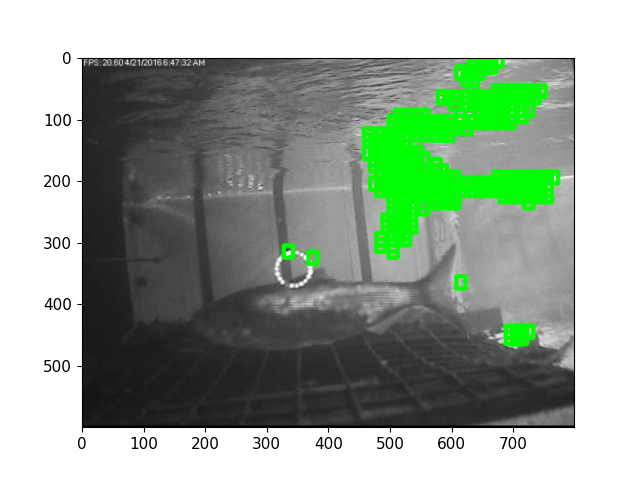
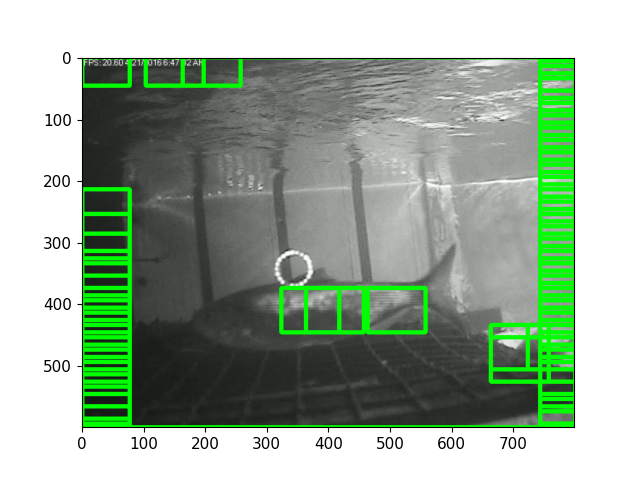
visulaisation code added

diff --git a/yolov7/visualisation.py b/yolov7/visualisation.py
@@ -4,18 +4,23 @@ import torch
 import cv2
 from torchvision import transforms
 import numpy as np
+import tqdm
 import math
 from utils.datasets import letterbox
+from models.experimental import attempt_load
 from utils.general import check_img_size, check_requirements, check_imshow, non_max_suppression, apply_classifier, \
     scale_coords, xyxy2xywh, strip_optimizer, set_logging, increment_path
 
-def visualise(weights_path,img_path):
+def visualise(weights_path,img_path,target_box,target_class_index):
     device = torch.device("cuda:0" if torch.cuda.is_available() else "cpu")
-    label_names =[ 'scallop','herring','dead-scallop','flounder','roundfish','skate' ]
-    weigths = torch.load(weights_path)
-    model = weigths['model']
-    model = model.half().to(device)
-    _ = model.eval()
+    classes=np.array([ 'scallop','herring','dead-scallop','flounder','roundfish','skate' ])
+    weights = torch.load(weights_path)
+    model = attempt_load(weights_path, map_location=device)
+    stride = int(model.stride.max())  # model stride
+    # imgsz = check_img_size(imgsz, s=stride)  # check img_size
+
+    # model = model.half().to(device)
+    # _ = model.eval()
     image = cv2.imread(img_path)  # 504x378 image
     
     # imaget = letterbox(image, 640, stride=64, auto=True)[0]
@@ -42,15 +47,20 @@ def visualise(weights_path,img_path):
         return mask
 
     def mask_image(image, mask):
-        masked = ((image.astype(np.float32) / 255 * np.dstack([mask] * 3)) *
+        masked0 = ((image.astype(np.float32) / 255 * np.dstack([mask] * 3)) *
                   255).astype(np.uint8)
-        masked = letterbox(masked, 1280, stride=64, auto=True)[0]
-        masked_ = image.copy()
-        masked = transforms.ToTensor()(masked)
-        masked = torch.tensor(np.array([masked.numpy()]))
-        masked = masked.to(device)
-        masked = masked.half()
-        return masked
+        masked = letterbox(masked0, 640, stride=stride)[0]
+
+        # Convert
+        masked = masked[:, :, ::-1].transpose(2, 0, 1)  # BGR to RGB, to 3x416x416
+        masked = np.ascontiguousarray(masked)
+        masked = torch.from_numpy(masked).to(device)
+        masked = masked.float()  # uint8 to fp16/32
+        masked /= 255.0  # 0 - 255 to 0.0 - 1.0
+        # print(masked)
+        if masked.ndimension() == 3:
+            masked = masked.unsqueeze(0)
+        return masked0,masked
 
     def iou(box1, box2):
         box1 = np.asarray(box1)
@@ -72,58 +82,105 @@ def visualise(weights_path,img_path):
         np.random.seed(seed)
         image_h, image_w = image.shape[:2]
         res = np.zeros((image_h, image_w), dtype=np.float32)
+        max_score=0
         for _ in range(n_masks):
             mask = generate_mask(image_size=(image_w, image_h),
                                 grid_size=grid_size,
                                 prob_thresh=prob_thresh)
-            masked = mask_image(image, mask)
-            out = model(masked)
-            # for i, det in enumerate(out):  # detections per image
-                
-            #     im0= masked
+            masked0,masked = mask_image(image, mask)
+            with torch.no_grad():   # Calculating gradients would cause a GPU memory leak
+                pred = model(masked)[0]
+                # print(pred)
+                pred = non_max_suppression(pred)
+                # score = max([iou(target_box, box) * score for *box, score in pred],default=0)
+                # res += mask * score
+            max_score=0
+            for i, det in enumerate(pred):
+                # print(det[:, :4])
+                if len(det):
+                    # Rescale boxes from img_size to im0 size
+                    det[:, :4] = scale_coords(masked.shape[2:], det[:, :4], masked0.shape).round()
+                    bboxes=det[:, :4].cpu().data.numpy()
+                    scores=det[:, 4].cpu().data.numpy()
+                    classes_=det[:, -1].cpu().data.numpy()
+                    # print(bbox,score,class_)
+                    for item in range(len(scores)):
+                        if int(classes_[item])==int(target_class_index):
+                            max_score=max(iou(target_box,bboxes[item])*scores[item],max_score)
+            res += mask * max_score
+        return res
 
-            #     gn = torch.tensor(im0.shape)[[1, 0, 1, 0]]  # normalization gain whwh
-            #     if len(det):
-            #         # Rescale boxes from img_size to im0 size
-            #         det[:, :4] = scale_coords(masked.shape[2:], det[:, :4], im0.shape).round()
-
-            #         # Print results
-            #         for c in det[:, -1].unique():
-            #             n = (det[:, -1] == c).sum()  # detections per class
-            #             s += f"{n} {names[int(c)]}{'s' * (n > 1)}, "  # add to string
-
-            #         # Write results
-            #         for *xyxy, conf, cls in reversed(det):
-            #             xywh = (xyxy2xywh(torch.tensor(xyxy).view(1, 4)) / gn).view(-1).tolist()  # normalized xywh
-                        
-            # pred = out.xyxy[0]
-            pred = out.max()
-            # res += mask * score
-        return pred
-
-    target_box = np.array([289, 72, 491, 388])
+    # target_box = np.array([270, 255, 615, 377])
     saliency_map = generate_saliency_map(image,
-                                        target_class_index=15,
+                                        target_class_index=target_class_index,
                                         target_box=target_box,
                                         prob_thresh=0.5,
                                         grid_size=(16, 16),
-                                        n_masks=1000)
-    return saliency_map
+                                        n_masks=2000)
+    image_with_bbox = image.copy()
+    # print(image_with_bbox.shape)
     
-    # image_with_bbox = image.copy()
-    # cv2.rectangle(image_with_bbox, tuple(target_box[:2]), tuple(target_box[2:]),
-    #               (0, 255, 0), 5)
-    # plt.figure(figsize=(7, 7))
-    # plt.imshow(image_with_bbox[:, :, ::-1])
-    # plt.imshow(saliency_map, cmap='jet', alpha=0.5)
-    # plt.axis('off')
-    # plt.imsave("uncropped")
-    # plt.show()
+    return image_with_bbox , saliency_map
+    
+
 
 if __name__ == "__main__":
-    image=visualise( 'runs/train/uncropped/weights/best.pt','data/input/test/herring/images/319.png')
-    print(image[1])
+    fish_images={'scallop':['1030',0],'herring':['65',1],'flounder':['507',3],'roundfish':['196',4],'skate':['672',5]}
+    fish_target_boxes=[[510, 510, 670, 640],[260, 255, 615, 377],[286, 25, 650, 490],[620, 503, 928, 910],[328, 170, 700, 809]]
+    fig, axes = plt.subplots(5, 2, figsize=(20,45))
+    plt.subplots_adjust(wspace=0, hspace=0,left=0, right=1, bottom=0, top=1)
+    plt.rcParams.update({'font.size': 48})
+    count=0
+    for fish in fish_images:
+        # if count==2:
+        #     count+=1
+        #     continue
+        ax1, ax2= axes[count]
+        image_with_bbox,saliency_map=visualise( 'runs/train/uncropped/weights/best.pt',f'data/input/test/{fish}/images/{fish_images[fish][0]}.png',fish_target_boxes[count],fish_images[fish][1])
+        cv2.rectangle(image_with_bbox, tuple(fish_target_boxes[count][:2]), tuple(fish_target_boxes[count][2:]),(0, 255, 0), 5)
+        ax1.imshow(image_with_bbox[:, :, ::-1])
+        ax1.axis('off') # for removing axis
+        ax2.axis('off')
+        ax1.set_title(f'{fish}')
+        ax2.imshow(saliency_map, cmap='jet', alpha=0.5)
+        ax2.set_title('Saliency Map')
+        count+=1
+    plt.savefig("uncropped.png")
 
+    # fish_images={'scallop':['1030',0],'herring':['65',1],'flounder':['507',3],'roundfish':['196',4],'skate':['672',5]}
+    # fish_target_boxes=[260, 255, 615, 377]
+    # fig, axes = plt.subplots(1, 4, figsize=(50,20))
+    # plt.subplots_adjust(wspace=0, hspace=0,left=0, right=1, bottom=0, top=1)
+    # plt.rcParams.update({'font.size': 50})
+    # count=0
+    # den=['uncropped','denoise8','nafnet3']
+   
+    # if count==2:
+    #     count+=1
+    #     continue
+    # ax1, ax2,ax3,ax4= axes
+    # image_with_bbox,saliency_map_1=visualise( f'runs/train/uncropped/weights/best.pt',f'data/input/test/herring/images/65.png',fish_target_boxes,1)
+    # cv2.rectangle(image_with_bbox, tuple(fish_target_boxes[:2]), tuple(fish_target_boxes[2:]),(0, 255, 0), 5)
+    # ax1.imshow(image_with_bbox[:, :, ::-1])
+    # ax1.axis('off') # for removing axis
+    # ax2.axis('off')
+    # ax3.axis('off')
+    # ax4.axis('off')
+    # ax1.set_title('Herring fish')
+    # ax2.imshow(saliency_map_1, cmap='jet', alpha=0.5)
+    # ax2.set_title('No enhancement')
+    # _,saliency_map_2=visualise( f'runs/train/denoise8/weights/best.pt',f'data/input_nf/test/herring/images/65.png',fish_target_boxes,1)
+    # ax3.imshow(saliency_map_2, cmap='jet', alpha=0.5)
+    # ax3.set_title('Feature enhanced')
+    # _,saliency_map_3=visualise( f'runs/train/nafnet3/weights/best.pt',f'data/input_nf/test/herring/images/65.png',fish_target_boxes,1)
+    # ax4.imshow(saliency_map_3, cmap='jet', alpha=0.5)
+    # ax4.set_title('Model enhanced')
+    # plt.savefig("saliency_enhancement.png")
+    
+    
+    
+    
 
+    
 
 

diff --git a/yolov7/data/normalize_coords.py b/yolov7/data/normalize_coords.py
@@ -1,7 +1,7 @@
 from pathlib import Path
 import glob, os
 from PIL import Image
-dic_fish={'scallop':'0','herring':'1','dead-scallop':'2','flounder':'3','roundfish':'4','skate':'5','acanthopagrus':'6' ,'epinephelus':'7' , 'f2':'8' , 'f3':'9' , 'f6':'10', 'gerres':'11' , 'lutjanus':'12'}
+dic_fish={'scallop':'0','herring':'1','dead-scallop':'2','flounder':'3','roundfish':'4','skate':'5'}
 list_dirs=['train','test','val']
 
 for fish in dic_fish:
@@ -9,22 +9,22 @@ for fish in dic_fish:
         d_type=dir_i
         fish_type=fish
         fish_idx=dic_fish[fish]
-        direc=f'/home/ubuntu/670_fish_project/yolov7/data/input/{d_type}/{fish_type}/labels'
-        im_direc=f'/home/ubuntu/670_fish_project/yolov7/data/input/{d_type}/{fish_type}/images'
+        direc=f'/home/ubuntu/670_fish_project/yolov7/data/denoise/{d_type}/{fish_type}/labels'
+        im_direc=f'/home/ubuntu/670_fish_project/yolov7/data/denoise/{d_type}/{fish_type}/images'
 
         os.chdir(direc)
         for file_path in glob.glob("*.txt"):
             file_name=file_path.split('.')[0]
-            img=Image.open(f'{im_direc}/{file_name}.png')
-            w,h=img.shape[0],img.shape[1]
+            # python no img=Image.open(f'{im_direc}/{file_name}.png')
+            # w,h=img.shape[0],img.shape[1]
             with open(f'{direc}/{file_path}') as fp:
                 lines = fp.readlines()
             norm_lines=[]
             for line in lines:
             
                 l=line.split()
-                l[1],l[3]=str(float(l[1])/w),str(float(l[3])/w)
-                l[2],l[4]=str(float(l[2])/h),str(float(l[4])/h)
+                l[1],l[2]='0.5','0.5'
+                l[3],l[4]='1','1'
                 txt=' '.join(l)
                 norm_lines.append(txt)
             with open(f'{direc}/{file_path}', 'w') as f:

diff --git a/yolov7/saliency.py b/yolov7/saliency.py
@@ -5,6 +5,7 @@ import matplotlib
 matplotlib.use('MacOSX')
 import matplotlib.pyplot as plt
 import numpy as np
+import tqdm
 
 from mmdet.apis import init_detector, inference_detector
 from mmyolo.utils import register_all_modules
@@ -58,7 +59,7 @@ def generate_saliency_map(image,
         bboxes,scores=preds.bboxes.cpu().data.numpy(),preds.scores.cpu().data.numpy()
         temp=[]
         for i, bbox in enumerate(bboxes):
-            if scores[i] < 0.26356:
+            if scores[i] < 0.2595:
                 break
             box = tuple(np.round(bbox).astype(int).tolist())
             temp.append(iou(target_box, box) * scores[i])
@@ -90,7 +91,7 @@ res = image.copy()
 preds=out.pred_instances
 bboxes,labels,scores=preds.bboxes.cpu().data.numpy(),preds.labels.cpu().data.numpy(),preds.scores.cpu().data.numpy()
 for i, bbox in enumerate(bboxes):
-    if scores[i] < 0.25:
+    if scores[i] < 0:
         break
     box = tuple(np.round(bbox).astype(int).tolist())
     print(i, labels[i], box, scores[i])

diff --git a/yolov7/config.py b/yolov7/config.py
@@ -35,7 +35,7 @@ model = dict(
         head_module=dict(num_classes=num_classes),
 
         # loss_cls 会根据 num_classes 动态调整，但是 num_classes = 1 的时候，loss_cls 恒为 0
-        loss_cls=dict(loss_weight=0.5 * (num_classes / 80 * 3 / _base_.num_det_layers))
+        loss_cls=dict(loss_weight=0.5 * (num_classes / 6 * 3 / _base_.num_det_layers))
     )
 )
 
@@ -68,7 +68,7 @@ test_dataloader = val_dataloader
 val_evaluator = dict(ann_file=data_root + 'annotations/test.json')
 test_evaluator = val_evaluator
 
-optim_wrapper = dict(optimizer=dict(lr=base_lr))
+optim_wrapper = _base_.optim_wrapper
 
 default_hooks = dict(
     # 设置间隔多少个 epoch 保存模型，以及保存模型最多几个，`save_best` 是另外保存最佳模型（推荐）

diff --git a/yolov7/data/labels_to_num.py b/yolov7/data/labels_to_num.py
@@ -10,7 +10,7 @@ for fish in dic_fish:
         d_type=dir_i
         fish_type=fish
         fish_idx=dic_fish[fish]
-        direc=f'/home/ubuntu/670_fish_project/yolov7/data/input_nf/{d_type}/{fish_type}/labels'
+        direc=f'/home/ubuntu/670_fish_project/yolov7/data/denoise/{d_type}/{fish_type}/labels'
 
         os.chdir(direc)
         for file_path in glob.glob("*.txt"):
